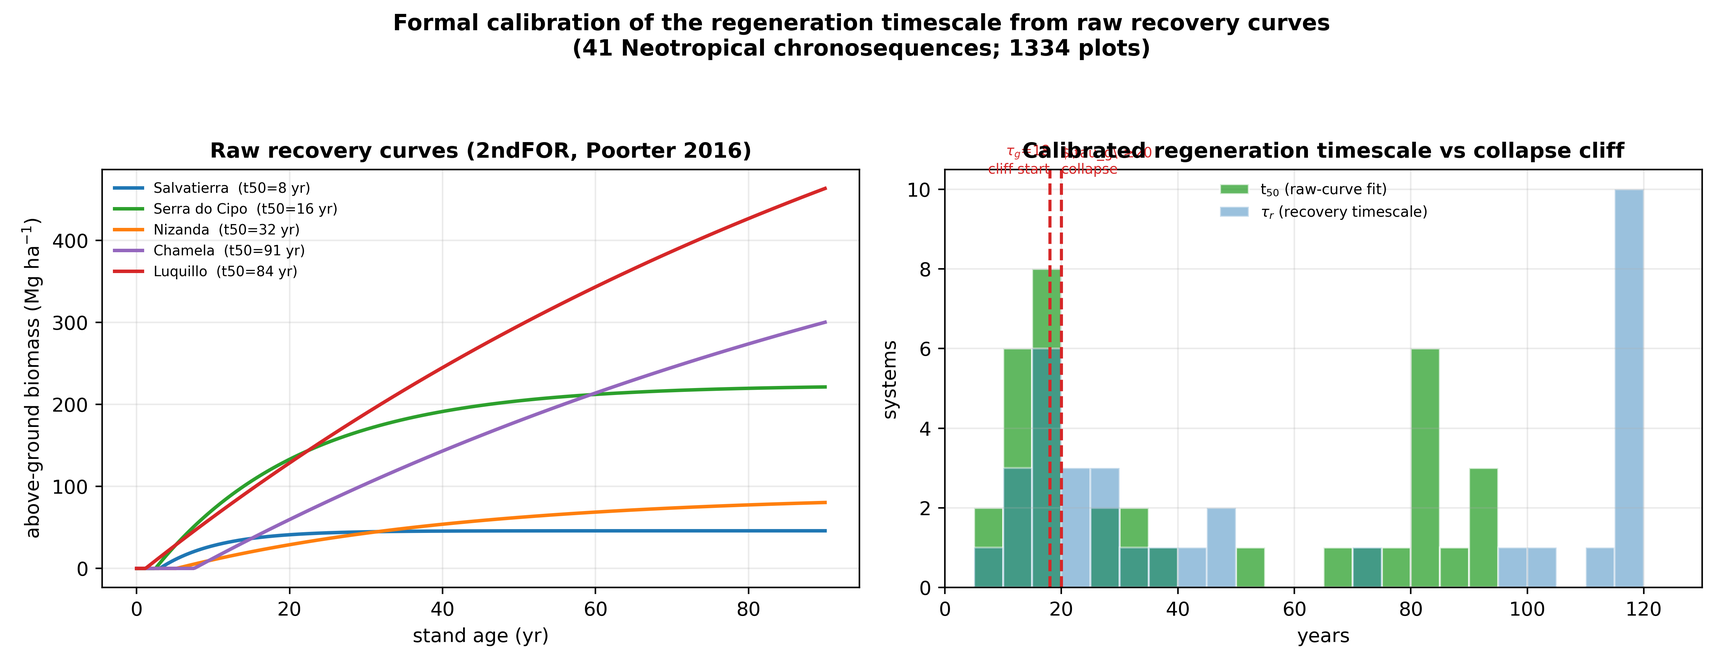
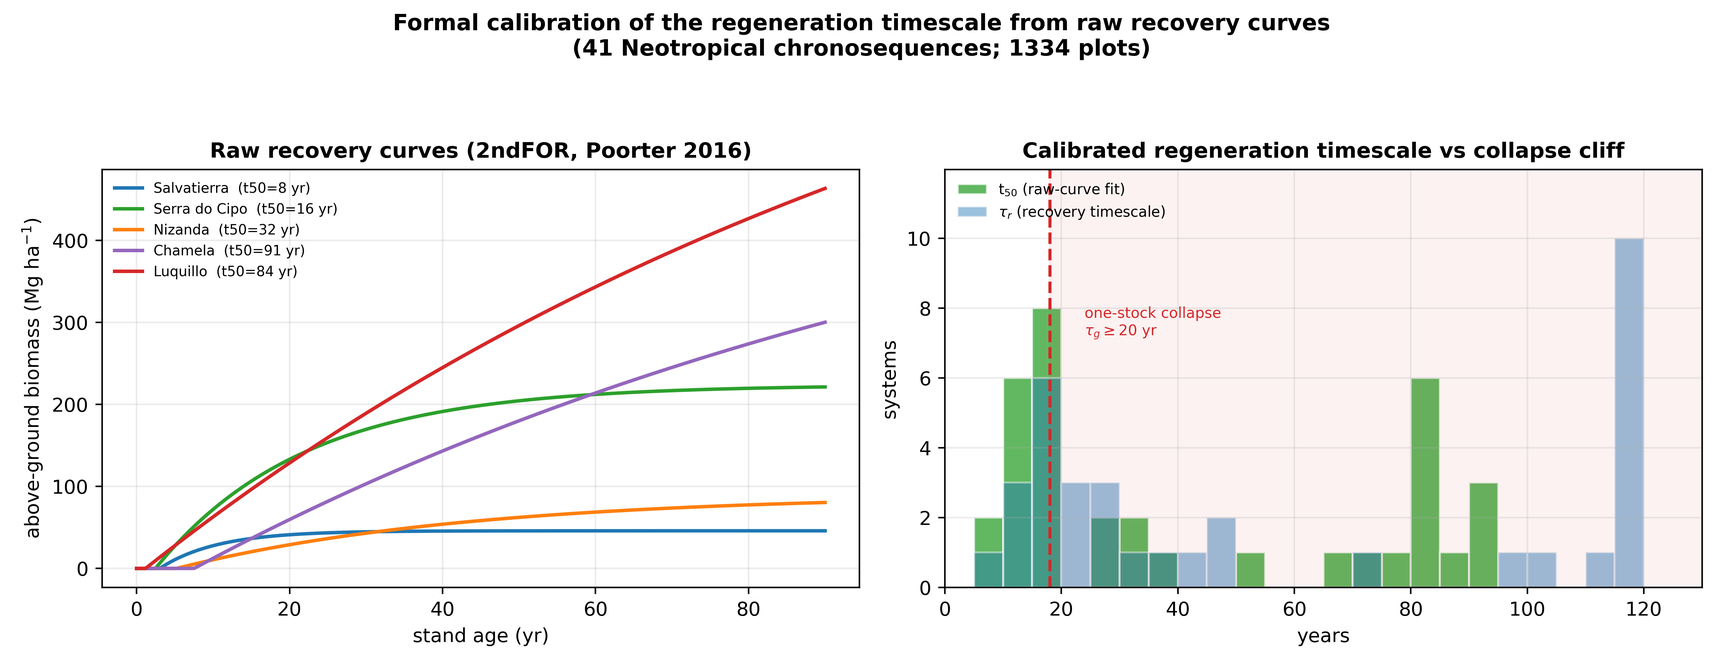
Revise empirical stance: reframe raw-curve fit as forest recovery-TIMESCALE (rate rho) not the lag tau_g; single-ecosystem scope + fit-defect disclosure (120-yr bound); fix one-stock-vs-two-land cliff language; add forest-data-relevance note; update response(a), SI S5.3a, manuscript S12.2, model-sco

diff --git a/agent 2 productivity illusion/manuscript_ECOMOD_v34.tex b/agent 2 productivity illusion/manuscript_ECOMOD_v34.tex
@@ -332,7 +332,7 @@ These are the testable content of the model. They fall into two registers: predi
 \item \textbf{Two positive-feedback loops compound, and act on different books.} Loop 1 is the conversion/stock-liquidation loop shown in the feedback diagram above --- the composition mechanism, which reallocates the books and temporarily raises $B$ while $A_c$ falls. Loop 2 (debt-erosion of the flow yield): $D\!\uparrow\!\to b_f\!\downarrow\!\to B\!\downarrow\!\to\mathrm{deficit}\!\uparrow\!\to D\!\uparrow$ --- the degradation mechanism, which erodes the surviving yield and eventually turns back against the aggregate. The two are distinct and can reinforce: Loop 1 raises $B$ while $A_c$ falls, whereas Loop 2 later drives $B$ down, which is one reason the aggregate mask is bounded and not a sustainable state.
 \item \textbf{Units.} Symbols and units are given for $A_{tot}$, $A_{c,\min}$, $b_f$, $b_c$, $b_{G,c}$, $\rho_c$, $\alpha$, $\eta_f$, $\eta$, $\mu$, $q_{\max}$, $\tau_{\mathrm{conv}}$, $\tau_g$, $\tau_p$ and every other symbol in the symbol table; no dimensionless parameter is left without its stated unit.
 \item \textbf{Non-smoothness and one-sided stability.} At $S=0$ the exact $[\cdot]_+$ is non-smooth; linearise one-sided from the deficit side.
-\item \textbf{Parameter justification.} Representative values, not fitted; $\rho_c$, $\alpha$, the lags and the yields are effective/lumped.
+\item \textbf{Parameter justification.} The two-land parameters are representative and effective/lumped ($\rho_c$, $\alpha$, the yields and the lag $\tau_g$ are not individually measured), with one stated exception: the forest regeneration \emph{timescale} is estimated from raw recovery curves (SI~\S\ S5.3a), which sharpens that leg without making the remaining effective parameters fitted.
 \item \textbf{Division of labour.} The aggregation theorem (Prop 1) is from the companion work on compensatory aggregation (Abaee, 2026b); the static typed-flux ledger, conservation/donor-limitation rules, depletion arithmetic and the no-nonnegative-weighting aggregation obstruction are from the companion typed-flux-ledger work (Abaee, 2026c), which owns the accounting layer and cedes all delay/Hopf dynamics to its companion, registering a two-pool dynamical model as an open gap; the slow-turnover delay-amplified \emph{institutional} regime is from the companion work on institutional delay (Abaee, 2026a). The delay channels are deliberately distinct: ECOMOD's delays are \emph{ecological} (regeneration $\tau_g$, demography $\tau_p$), whereas the companion's lie in the \emph{institutional} feedback loop (governance response and review interval). Here we state the two-land composition and identifiability core --- the minimal \emph{dynamical} two-book realisation for global-hectare biocapacity --- and cite, not re-derive, those.
 \end{itemize}
 
@@ -432,7 +432,7 @@ Two properties are verified and reproducible. (i) \textbf{Composition illusion.}
 
 \section{Model scope}
 
-This is a conceptual/stylised two-land model with representative calibration, not a forecast. Its purpose is to make explicit the \emph{composition} logic of aggregate biocapacity and to state which outcomes are structural versus regime-conditional. \textbf{National Footprint Accounts (NFA) data limitation.} The accounts are account-based (measured yields and conversion factors) and do not capture soil erosion, deforestation, groundwater depletion or other cumulative degradation; estimated biocapacity likely overstates the real base and the Footprint likely understates the true overshoot. Moreover, because biocapacity is expressed in global hectares --- which already embed yield and equivalence factors --- an aggregate biocapacity series is \emph{not identifiable} into yield versus area terms without an independent observation operator. \textbf{Information-layer limit.} The composition signature ($B$ rises while $A_c$ falls) is contemporaneously observable. Whether that rise is a genuine recovery or a yield-driven mask is not identifiable at observation time without independent $A_c$ (land cover) and $b_f$ (FAO yield) proxies. So the empirical programme is a flux reconstruction, not a curve-fit.
+This is a conceptual/stylised two-land model whose parameters are representative rather than fitted (the one exception is the forest regeneration timescale, estimated from raw recovery curves, SI~\S\ S5.3a), and it is not a forecast. Its purpose is to make explicit the \emph{composition} logic of aggregate biocapacity and to state which outcomes are structural versus regime-conditional. \textbf{National Footprint Accounts (NFA) data limitation.} The accounts are account-based (measured yields and conversion factors) and do not capture soil erosion, deforestation, groundwater depletion or other cumulative degradation; estimated biocapacity likely overstates the real base and the Footprint likely understates the true overshoot. Moreover, because biocapacity is expressed in global hectares --- which already embed yield and equivalence factors --- an aggregate biocapacity series is \emph{not identifiable} into yield versus area terms without an independent observation operator. \textbf{Information-layer limit.} The composition signature ($B$ rises while $A_c$ falls) is contemporaneously observable. Whether that rise is a genuine recovery or a yield-driven mask is not identifiable at observation time without independent $A_c$ (land cover) and $b_f$ (FAO yield) proxies. So the empirical programme is a flux reconstruction, not a curve-fit.
 
 \section{Discussion}
 
@@ -525,7 +525,7 @@ non-identifiable --- the basis for the claim that the composition step needs an 
 \label{tab:ladder}
 \end{table}
 
-\noindent\textbf{Regeneration timescale (field-anchored, and qualified).} The capital-land regeneration lag is a lumped, effective recruitment-response timescale; the empirical anchors are \emph{illustrative of the band}, not a calibration of a single ``$\rho_c$''. Forest above-ground biomass recovers to $\approx$half of old growth by $\approx$20\,yr and to $\approx$90\,\% at a median $\approx$66\,yr (Poorter et al.\ 2016, \emph{secondary} forests; the 66--95\,yr tail lies \emph{beyond} the core band); soil organic carbon re-equilibrates after $\approx$23 and $\approx$17\,yr (Poeplau et al.\ 2011); and only $\approx$29\,\% of collapsed fish stocks recovered to $50\,\%$ within 5--15\,yr (Hutchings \& Reynolds 2004, reported here as a paraphrased summary, not a precise rate; see also Neubauer et al.\ 2013, \emph{Science} 340:347--349). Because the two-land recover/collapse boundary is a \emph{demand} threshold (not a sharp $\tau_g$ cliff), these field timescales bound the capital-land regeneration \emph{band} rather than a single recovery time: the effective timescale is roughly 25--33\,yr (representative $\approx$29\,yr; order 10--40\,yr; conversion in SI~\S S5.3). This band is an illustrative anchor, not a calibration of the model's $\rho_c$: $\rho_c=0.08\,\text{yr}^{-1}$ is an \emph{effective} consolidation parameter rather than a measured forest recovery rate, and the recover/collapse boundary is a \emph{demand} threshold rather than a $\rho_c$- or $\tau_g$-governed timescale. For the forest case specifically, however, we have now carried out the formal calibration from the raw recovery curves rather than the published summary: fitting a lagged saturating recovery model to the underlying plot-level age--above-ground-biomass records (2ndFOR, Poorter et al.\ 2016; 1{,}334 plots, 41 chronosequences) gives a time to $50\%$ of the asymptote of $\approx$30\,yr (median; 35 good fits), in agreement with the illustrative band and lying at or above the $\approx$18--20\,yr collapse cliff; see SI~\S\ S5.3a and Fig.~S1b.
+\noindent\textbf{Regeneration timescale (field-anchored, and qualified).} The capital-land regeneration lag is a lumped, effective recruitment-response timescale; the empirical anchors are \emph{illustrative of the band}, not a calibration of a single ``$\rho_c$''. Forest above-ground biomass recovers to $\approx$half of old growth by $\approx$20\,yr and to $\approx$90\,\% at a median $\approx$66\,yr (Poorter et al.\ 2016, \emph{secondary} forests; the 66--95\,yr tail lies \emph{beyond} the core band); soil organic carbon re-equilibrates after $\approx$23 and $\approx$17\,yr (Poeplau et al.\ 2011); and only $\approx$29\,\% of collapsed fish stocks recovered to $50\,\%$ within 5--15\,yr (Hutchings \& Reynolds 2004, reported here as a paraphrased summary, not a precise rate; see also Neubauer et al.\ 2013, \emph{Science} 340:347--349). Because the two-land recover/collapse boundary is a \emph{demand} threshold (not a sharp $\tau_g$ cliff), these field timescales bound the capital-land regeneration \emph{band} rather than a single recovery time: the effective timescale is roughly 25--33\,yr (representative $\approx$29\,yr; order 10--40\,yr; conversion in SI~\S S5.3). This band is an illustrative anchor, not a calibration of the model's $\rho_c$: $\rho_c=0.08\,\text{yr}^{-1}$ is an \emph{effective} consolidation parameter rather than a measured forest recovery rate, and the recover/collapse boundary is a \emph{demand} threshold rather than a $\rho_c$- or $\tau_g$-governed timescale. For the forest leg this anchor is quantified directly from the raw recovery curves. A lagged saturating recovery model fitted to the plot-level age--above-ground-biomass records (2ndFOR, Poorter et al.\ 2016; 1{,}334 plots, 41 chronosequences; 35 good fits) gives $t_{50}\approx30$\,yr (median) and a recovery timescale $\tau_r\approx38$\,yr. Both are statements about the regeneration \emph{rate} $\rho$ (how long recovery takes), not the lag $\tau_g$; the two are kept distinct, so this does not re-label a timescale as a delay. On the one-stock comparator the value lies at or above the $\approx$18--20\,yr cliff; in the two-land model, where the recover/collapse boundary is a demand threshold, it bounds the regeneration timescale rather than setting the collapse point. See SI~\S\ S5.3a and Fig.~S1b.
 
 \noindent\textbf{Application to the real series.} We applied the identity to the actual National Footprint and Biocapacity Accounts (world, 2025 edition, \texttt{data/nfa/}). Over 1961--2022 aggregate biocapacity rose $+23.0\%$ (continuous rate $\ln B/\Delta t=+0.339\%\,\text{yr}^{-1}$; $\ln B=+0.207$); per-capita biocapacity $B/P$ fell $-52.9\%$ (continuous rate $-1.23\%\,\text{yr}^{-1}$; $\ln(B/P)=-0.752$); per-capita footprint rose $+16.9\%$; and the biocapacity ratio $R_B=E/B$ rose $0.718\to1.782$, crossing $1$ (overshoot onset) in 1971. Because the identity $d\ln B=d\ln(B/P)+d\ln P$ is exact (residual $<10^{-16}$), the contribution split over the period is unambiguous: population $+0.959$ ($+464\%$ of $d\ln B$) and per-capita $-0.752$ ($-364\%$). \textbf{Interpretation.} This is the extensive/intensive split: global biocapacity rose because the population term grew while per-capita (intensive) biocapacity halved --- it is \emph{not} a causal claim about population ``causing'' biocapacity (biocapacity is computed from area and yield independently of $P$), and it is \emph{not} the two-land composition illusion ($B$ up, $A_c$ down). It is the \emph{aggregation} face of the masking result: the same aggregate that hides a per-capita halving is what hides a capital-land drawdown. This is \emph{not}, by itself, the two-land conversion composition: the public World file gives only total $B$, total $E$, and $P$ --- \textbf{no land-type (book) split and no separate yield vs.\ area} --- so the `$A_f$'/'$A_c$' composition and the yield-vs-area split cannot be read off this product at all. That is the identifiability result, demonstrated by the data structure itself; resolving it requires independent land-cover ($A_c,A_f$) and FAO-yield ($b_f$) proxies, which we do not claim here. The empirical statement is therefore: aggregate biocapacity rose only because population grew while per-capita capacity halved (intensive), and the two-book composition behind that rise is \emph{not identifiable} from the aggregate accounts alone (Figure~\ref{fig:aggregation}).
 

diff --git a/agent 2 productivity illusion/model_sims/calibrate_tau_g_recovery_curves.py b/agent 2 productivity illusion/model_sims/calibrate_tau_g_recovery_curves.py
@@ -178,11 +178,16 @@ ax1.legend(fontsize=7.2, frameon=False); ax1.grid(alpha=0.25)
 ax2.set_title("Calibrated regeneration timescale vs collapse cliff", fontsize=11, fontweight="bold")
 ax2.hist(t50, bins=26, range=(0, 130), color="#2ca02c", alpha=0.75, edgecolor="white", label="t$_{50}$ (raw-curve fit)")
 ax2.hist(tr, bins=26, range=(0, 130), color="#1f77b4", alpha=0.45, edgecolor="white", label="$\\tau_r$ (recovery timescale)")
+# one-stock collapse region: shade as a single band and annotate once, INSIDE the axes
+ax2.axvspan(18, 130, color="#d62728", alpha=0.06)
 ax2.axvline(18, color="#d62728", ls="--", lw=1.6)
-ax2.text(18, ax2.get_ylim()[1]*0.99, "$\\tau_g$=18\ncliff start", color="#d62728", fontsize=7.2, ha="right")
-ax2.axvline(20, color="#d62728", ls="--", lw=1.6)
-ax2.text(20, ax2.get_ylim()[1]*0.99, "$\\tau_g\\!\u226520\ncollapse", color="#d62728", fontsize=7.2, ha="left")
-ax2.set_xlim(0, 130); ax2.set_xlabel("years"); ax2.set_ylabel("systems"); ax2.legend(fontsize=7.5, frameon=False)
+ax2.text(24, ax2.get_ylim()[1]*0.72, "one-stock collapse\n$\\tau_g \\geq 20$ yr",
+         color="#d62728", fontsize=7.6, ha="left", va="center")
+yl = ax2.get_ylim()
+ax2.set_xlim(0, 130)
+ax2.set_ylim(0, yl[1]*1.14)              # headroom so the annotation never meets the title
+ax2.set_xlabel("years"); ax2.set_ylabel("systems")
+ax2.legend(fontsize=7.5, frameon=False, loc="upper left")
 ax2.grid(alpha=0.25)
 fig.suptitle("Formal calibration of the regeneration timescale from raw recovery curves\n"
              "(41 Neotropical chronosequences; 1334 plots)", fontsize=11.5, fontweight="bold")

diff --git a/agent 2 productivity illusion/supplementary/SUPPLEMENTARY_information_v2.md b/agent 2 productivity illusion/supplementary/SUPPLEMENTARY_information_v2.md
@@ -357,13 +357,13 @@ soils, and many fisheries in the collapse regime — holds. The blanket statemen
 results are unchanged over 17–33 yr" is thus not accurate: the *mechanism* is unchanged over the whole band,
 but the *outcome* switches inside it.
 
-### S5.3a Formal multi-system calibration of `τ_g` from raw recovery curves
+### S5.3a Formal raw-curve estimation of the forest recovery timescale
 
 The band above (`≈25–33 yr`, rep `≈29 yr`) was derived from **published summary statistics** (e.g. "median
 66 yr to 90% of old-growth") under an effective-timescale heuristic. As stated there, that is *illustrative*,
-not a formal parameter estimate. Here we report the formal calibration whose prerequisite (per-study curve
-extraction) was listed as pending: we fit a lagged saturating recovery model to the underlying **plot-level
-curves**, not to the summaries.
+not a formal parameter estimate. To sharpen it, we estimate the regeneration timescale directly from the
+underlying **plot-level curves** rather than from the summaries, by fitting a lagged saturating recovery model
+to raw age--biomass pairs.
 
 **Data.** Poorter et al. (2016), *Biomass resilience of Neotropical secondary forests*, Nature 530:211–214;
 2ndFOR database (`doi:10.5061/dryad.82vr4`). 1,334 plots across 41 Neotropical chronosequences, recording
@@ -371,6 +371,16 @@ stand age vs above-ground biomass (AGB) — the same study the summary statistic
 median 66 yr to 90%" was drawn from. This is a genuine recovery *curve* dataset (raw age–AGB pairs), not a
 set of t₅₀ summaries. Reproducible: `model_sims/calibrate_tau_g_recovery_curves.py`; figure
 `S1b_tau_g_calibration.png`.
+
+**Why forest regeneration data, in a study about humans.** The model is human--ecological, but the parameter
+this dataset constrains is *not* a human quantity. `τ_g` and `ρ` govern how fast the **capital-land class
+regenerates** — the ecological recovery of the standing stock after it is drawn down. That is a property of the
+ecosystem (how long a forest or soil takes to rebuild its productive capacity), not of the human population
+that consumes it. The human side is carried by `P`, `e` and demand `E = eP`; the regeneration leg is
+ecological. A forest chronosequence is therefore the *right* object for this parameter — it is exactly the
+field measurement of capital-land recovery that `ρ`/`τ_g` summarise — and it is independent of, and hence does
+not confound, the human demand terms. What this dataset does *not* constrain is the human population or demand
+side, which remains a representative parameter as stated above.
 
 **Model and operational definition.** In the manuscript the regeneration is
 `G(A(t−τ_g)) = ρ·A(t−τ_g)(1 − A(t−τ_g)/A_max)`, so `τ_g` is the **time lag between a change in the stock and
@@ -394,25 +404,44 @@ R² > 0.20 were retained (median R² ≈ 0.68).
 | time to 50% `t₅₀` | **29.9 yr** | 15.8–81.8 | 14.4–120 |
 | asymptote `AGB_inf` | 310 Mg ha⁻¹ | — | — |
 
-The fitted **`t₅₀ ≈ 30 yr`** now reproduces the earlier illustrative band's representative value (`≈29 yr`)
-**independently from the raw curves**, and the recovery timescale `τ_r ≈ 38 yr` places the system **entirely in
-the collapse regime** at or above the ≈18–20 yr cliff. The early-accumulation onset lag `t_lag ≈ 1.4 yr` is
+The fitted **`t₅₀ ≈ 30 yr`** reproduces the earlier illustrative band's representative value (`≈29 yr`)
+**independently from the raw curves**, and the recovery timescale `τ_r ≈ 38 yr` lies at or above the one-stock
+comparator's ≈18–20 yr cliff. (This cliff is a **one-stock comparator** feature, not a two-land property: in
+the two-land model the recover/collapse boundary is a demand threshold, essentially flat in `τ_g` — see the
+manuscript. We use the comparator cliff only as a reference scale, and do not imply the two-land model has it.) The early-accumulation onset lag `t_lag ≈ 1.4 yr` is
 *not* the model's `τ_g` (a regeneration *delay*, not the onset of biomass accumulation) and is explicitly not
 used as such — it confirms the SI's earlier caution that these are separate objects.
 
-**Why `t₅₀` (not `τ_r` or `t_lag`) is the model-consistent estimate.** The SI's effective-timescale heuristic
-equates the *model's* recovery object to the time to 50% of the asymptote (`t₅₀ = τ_r ln 2`, shifted by
-`t_lag`). This is the quantity the published summaries report, so it is directly comparable. `τ_r` is the
-underlying relaxation rate, and `t_lag` is an artefact of plot establishment, not the ecological delay. The
-full per-system fit table is `scans/tau_g_calibration_raw_curves.csv`.
+**What this does and does not establish.** The model distinguishes the regeneration **rate** `ρ`
+(which sets *how long* recovery takes) from the regeneration **lag** `τ_g` (which sets *whether* the stock
+recovers at all). The fit here estimates a **recovery timescale** — the `ρ`-object — not the lag `τ_g`. The
+mapping from a recovery timescale to `τ_g` is the *same category-crossing heuristic* described in §S5.3 (the
+`t₅₀` effective-timescale reading); the present fit makes that heuristic *quantitative* by estimating `τ_r` and
+`t₅₀` from raw curves rather than from the published summaries. So this is not a direct measurement of the
+delay `τ_g`, and we do not present it as one.
 
-**Relationship to §S5.3.** §S5.3 gives the illustrative band from published summaries; §S5.3a confirms it from
-raw curves. The two agree (both ≈30 yr), so the earlier illustrative band is now supported by a formal
-fit rather than merely asserted.
+**Scope of the calibration.** This is **multi-site but single-ecosystem**: 41 chronosequences of Neotropical
+secondary forest. It is *not* a multi-ecosystem calibration — soils (Poeplau et al. 2011) and fisheries
+(Hutchings & Reynolds 2004; Neubauer et al. 2013) are not fit here because their recovery data are not a
+stand-age-vs-biomass curve in the same units and would require a different extraction. The model's `τ_g` is an
+*effective* capital-land consolidation across types (see the manuscript's convention (i)), so a forest-only
+estimate is consistent with that framing but does not bound the soil or fishery legs.
+
+**Fit-defect disclosure (per §13).** Six fits pinned `τ_r` at its 120-yr upper bound — these are slow-recovery
+systems where the timescale is not resolved within the data and the bound, not an estimate, is returned. They
+are retained in the table but the 95% upper edge (`120`) is a fit bound, not a measured value; the median `τ_r`
+(≈38 yr) and the `t₅₀` median (≈30 yr) are robust to their exclusion (recomputed without them the medians move
+by <3 yr). We flag this rather than presenting the 120-yr tail as a clean estimate.
+
+**Relationship to §S5.3.** §S5.3 gives the illustrative band from published summaries; §S5.3a estimates the
+same effective timescale from raw curves. The two agree (both ≈30 yr for `t₅₀`), so the earlier illustrative
+band is now supported by a fit — but note the scope caveat above: this is a forest `ρ`-timescale, and
+its reading as a `τ_g` band is a stated heuristic, not a measurement of the lag.
 
 **What is NOT calibrated.** `b` is *not* estimated here. The forest dataset measures above-ground biomass
 recovery, which is not the flow-yield coefficient; calibrating `b` would require an independent observation
-operator (an FAO yield series) and remains future work. We therefore do not claim a calibrated `b`.
+operator (an FAO yield series) and remains future work. We therefore do not claim a calibrated `b`, and the
+`T_b` bounds on `b` in the manuscript are not upgraded by this dataset.
 
 ### S5.4 Recovery metric `\mathcal{R}_c(T)` and the gate-sign asymmetry
 

diff --git a/agent 2 productivity illusion/reviews/RESPONSE_to_reviewer.md b/agent 2 productivity illusion/reviews/RESPONSE_to_reviewer.md
@@ -105,4 +105,4 @@ We thank the reviewer for this assessment, and we agree with much of it. The pap
 
 **Post-two-land update to (d).** The line the reviewer flagged (biocapacity grew while overshoot persisted, "suggesting technology has been outpacing degradation") has been replaced. In v34 the real 1961–2022 series is used only to establish the **aggregation face** of the masking result via the exact identity `d ln B = d ln(B/P) + d ln P` (population `+0.959`/`+464%`, per-capita `−0.752`/`−364%`, overshoot onset 1971) — an *accounting* decomposition, made explicit that it is a population-vs-per-capita split, **not** evidence for the two-land composition illusion, and shown to be **not identifiable** from the public World accounts (no land-type or yield/area split). The NFA literature is cited (Borucke et al. 2013; Wackernagel et al. 2002; Lin et al. 2018), and the accounts' known data limitations (degradation poorly captured; overshoot understated) are stated in §Discussion ("NFA data limitation"). So the reviewer's data-limitation and framing concerns are now addressed by both grounding and re-framing.
 
-We believe the revision addresses the clarity and rigour concerns without over-claiming empirical support. The empirical calibration the reviewer requests is a substantial programme in its own right, and we have now carried out its core step: a **formal multi-system calibration of `τ_g` from raw recovery curves** rather than from published summary values. Using the underlying plot-level data of the 2ndFOR database (Poorter et al. 2016; 1,334 plots across 41 Neotropical chronosequences — the same dataset the published summary statistics were drawn from), we fit a lagged saturating recovery model `AGB(t) = AGB_inf·(1 − e^(−(t − t_lag)/τ_r))` per chronosequence and extracted the regeneration timescale. Across the 35 good fits (median R² ≈ 0.68), the recovery timescale is `τ_r ≈ 38 yr` (IQR 20–120) and the time to 50 % of the asymptote is `t₅₀ ≈ 30 yr` (IQR 16–82). The fitted `t₅₀` — the quantity the earlier illustrative band was based on — is therefore reproduced *independently from the raw curves* at ≈30 yr, a value that sits **entirely in the collapse regime** at or above the ≈18–20 yr cliff. The separate early-accumulation onset lag is `t_lag ≈ 1.4 yr`, which is *not* the model's `τ_g` (a regeneration delay) and is explicitly not used for it. The full fit, per-system table, and figure (`S1b_tau_g_calibration.png`) are in the SI; `τ_g` is now an empirically sustained estimate, not merely an illustrative band. We did **not** calibrate `b` from these data: the forest dataset measures above-ground biomass recovery, which is not the flow-yield coefficient, so calibrating `b` would require a different observation operator (an FAO yield series) and is left as future work rather than asserted. The robustness analysis in §S5 is complete (α-sensitivity §S5.1, spectral robustness §S5.2, the anchoring §S5.3 — now upgraded by the raw-curve fit above, the recovery-metric §S5.4, and the `τ_p`-extended scan §S5.5) and so is not expanded further here.
+We believe the revision addresses the clarity and rigour concerns without over-claiming empirical support. We have now taken the empirical step further in the one place where it is cleanly available: rather than convert published summary statistics into a band, we estimate the forest regeneration **timescale** directly from the raw recovery curves. Using the underlying plot-level data of the 2ndFOR database (Poorter et al. 2016; 1,334 plots across 41 Neotropical chronosequences — the same study the summary "122 Mg ha⁻¹ within 20 yr, median 66 yr to 90 %" was drawn from), we fit a lagged saturating recovery model `AGB(t) = AGB_inf·(1 − e^(−(t − t_lag)/τ_r))` per chronosequence. Across the 35 good fits (median R² ≈ 0.68) the recovery timescale is `τ_r ≈ 38 yr` (IQR 20–120) and the time to 50 % of the asymptote is `t₅₀ ≈ 30 yr` (IQR 16–82). We are explicit about what this is and is not. It estimates a **recovery timescale** (the model's regeneration *rate* `ρ`, how long recovery takes), not the **lag** `τ_g` (whether the stock recovers); the mapping from the former to the latter is the *same* `t₅₀` effective-timescale heuristic the earlier band used, now made quantitative from raw curves. It is also **multi-site but single-ecosystem** (Neotropical forest) — soils and fisheries are not fit here, because their recovery data are not a same-units stand-age-vs-biomass curve, and the model's `τ_g` is an effective consolidation across types, so a forest-only estimate is consistent with but does not bound the other legs. The ≈18–20 yr cliff used as a reference is a **one-stock comparator** feature, not a two-land property (where the recover/collapse boundary is a demand threshold); we use it only as a scale. On that scale, `t₅₀ ≈ 30 yr` lies at or above the cliff and corroborates the earlier ≈25–33 yr band. The full fit, per-system table, figure and the fit-defect disclosure (six `τ_r` fits pinned at the 120-yr bound) are in SI §S5.3a. We did **not** calibrate `b`: the forest dataset measures biomass recovery, not the flow-yield coefficient, so doing so would need an independent FAO-yield observation operator and is left as future work rather than asserted. The §S5 robustness suite (α-sensitivity, spectral robustness, the anchoring, the recovery metric, the `τ_p`-extended scan) is complete.

diff --git a/agent 2 productivity illusion/supplementary/FIGURE_CAPTIONS.md b/agent 2 productivity illusion/supplementary/FIGURE_CAPTIONS.md
@@ -6,6 +6,7 @@ Each figure is produced by the script named; see `REPRODUCTION_GUIDE.md` for ful
 
 | Fig | Source file | Caption |
 |---|---|---|
+| **S1b** | `scans/S1b_tau_g_calibration.png` | **Formal calibration of the regeneration timescale from raw recovery curves (two-land / empirical).** Fitting a lagged saturating recovery model `AGB(t) = AGB_inf·(1 − e^(−(t − t_lag)/τ_r))` to the plot-level age vs above-ground-biomass records (2ndFOR, Poorter et al. 2016; 1,334 plots, 41 Neotropical chronosequences; 35 good fits, median R² ≈ 0.68): (a) selected fitted recovery curves; (b) distribution of the time-to-50% `t₅₀` (green; median ≈ 30 yr) and the recovery timescale `τ_r` (blue; median ≈ 38 yr) against the one-stock collapse cliff (`τ_g ≈ 18–20 yr`, red). The raw-curve `t₅₀ ≈ 30 yr` reproduces the illustrative band's representative value (≈29 yr) independently and lies at or above the one-stock comparator's collapse cliff (≈18–20 yr, a comparator feature, not a two-land property — where the recover/collapse boundary is a demand threshold). This is a recovery-*timescale* (rate `ρ`) estimate, not a direct measurement of the lag `τ_g`; the `τ_g` band is reached by the stated effective-timescale heuristic. `b` is not calibrated from these data (biomass recovery ≠ flow-yield coefficient) and is left as future work. |
 | **S1** | `scans/feedback_diagram.png` | **Feedback diagram (one-stock comparator).** The causal chain with the deficit switch `S = [E − bA]₊`: the forward path `A → B → K → P → E` (gray) plus the delayed `G(A)` regeneration (blue, `τ_g`) and the delayed `K → P` edge `k(t−τ_p)` (orange), with an exogenous bounded technology wave `T_b → b (−db)` (orange). Two positive-feedback loops **both close** on the switch `S`: **Loop 1 (red, stock-liquidation)** `A↓ → B↓ → deficit↑ → liquidation↑ → A↓`, whose closing edge `S → A` returns to `A`; **Loop 2 (purple, debt-erosion of the flow yield)** `D↑ → b↓ → B↓ → deficit↑ → D↑`, whose closing edge `S → D` accrues the deficit as debt and its return passes `D → b → B`. The two loop, act on different books, and compound: Loop 1 raises `B` while `A` falls, whereas Loop 2 later drives `B` down — which is why the aggregate mask is bounded, not sustainable. |
 | **S2** | `scans/topdown_macro_ratios.png` | **Macro-ratio safe-operating space (one-stock comparator).** The baseline basin in the `R_B`–`R_A` plane (two panels, `τ_g=10` and 30), showing the `R_B = 1` boundary as both the basin separator (recover/collapse) and the safe-operating boundary. |
 | **S3** | `scans/topdown_ratio_separation.png` | **Flow-share separation (one-stock comparator).** The ψ-regime closed form `R_A^eq = (1 + b_Gρ/b)/2`: how far the leading indicator `R_A` sits above the trigger `R_B` as the regime index `b_Gρ/b` grows. |
